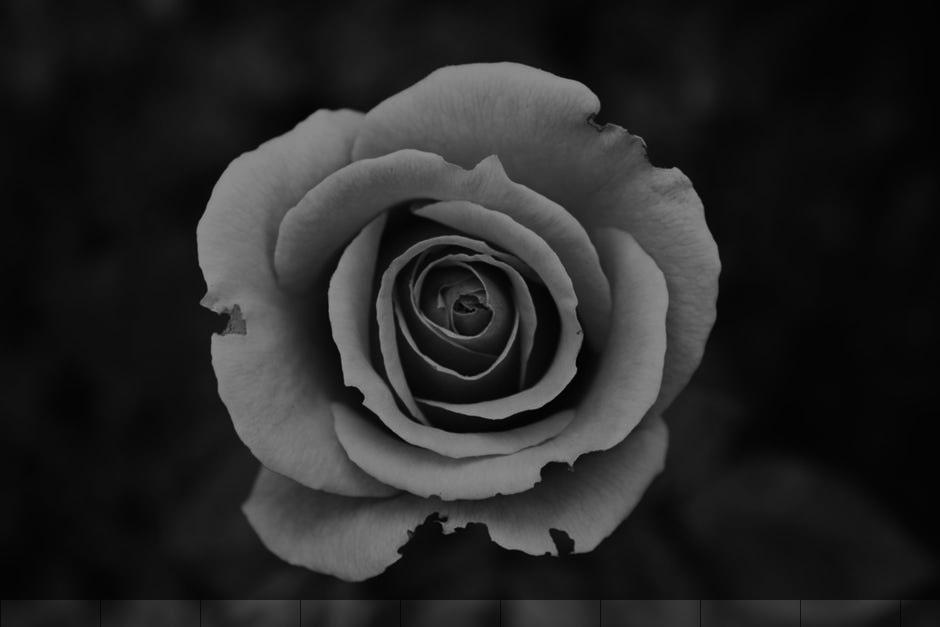
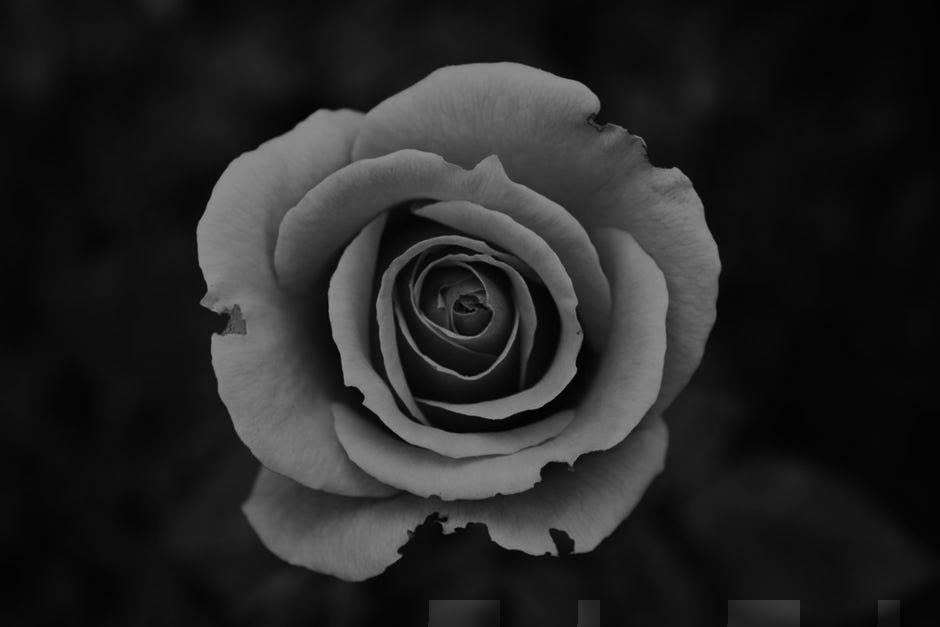
Clean Multi and Single Threaded processing

diff --git a/QuickStart.java b/QuickStart.java
@@ -150,7 +150,7 @@ public class QuickStart extends Panel {
 
                 System.out.println("Generated thread No." + j);
 
-                ThreadedColorizer mtc = new ThreadedColorizer(image, frame, leftCorner, topCorner, width, sqSize);
+                ThreadedColorizer mtc = new ThreadedColorizer(image, frame, leftCorner, topCorner, width, height);
                 Thread thread = new Thread(mtc);
                 threads.add(thread);
                 thread.start();
@@ -161,7 +161,7 @@ public class QuickStart extends Panel {
 
                 if (rowEnd) {
                     leftCorner = 0;
-                    topCorner += sqSize;
+                    topCorner += sqSize ;
                     
                     if (colEnd){
                         break outerloop;

diff --git a/ThreadedColorizer.java b/ThreadedColorizer.java
@@ -27,8 +27,8 @@ public class ThreadedColorizer implements Runnable{
     }
 
     public static void colorImage(BufferedImage image, JFrame frame, int leftCorner, int topCorner, int width, int height) {
-        for (int x = leftCorner; x < leftCorner + width && x < image.getWidth(); ++x) {
-            for (int y = topCorner; y < topCorner + height && y < image.getHeight(); ++y) {
+        for (int x = leftCorner; x < leftCorner + width; ++x) {
+            for (int y = topCorner; y < topCorner + height; ++y) {
                 colorPixel(image, x, y);
 
                 if ((x + y) % 150 == 0) {
